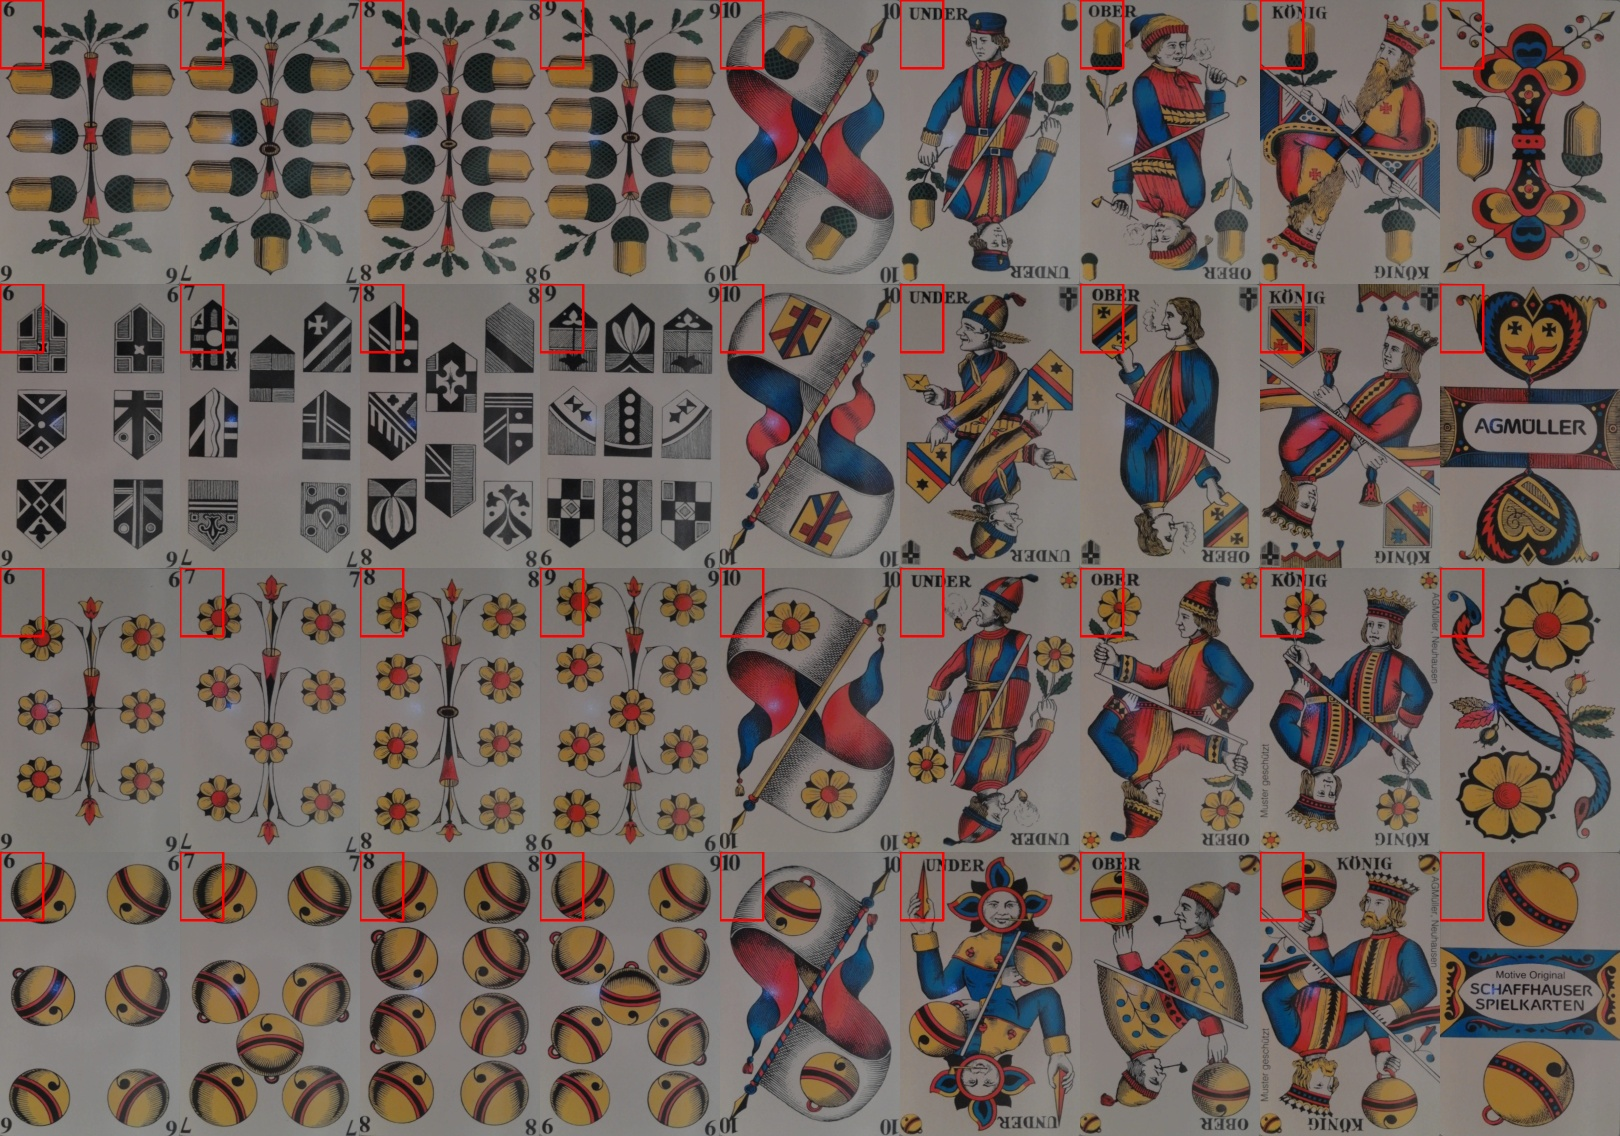
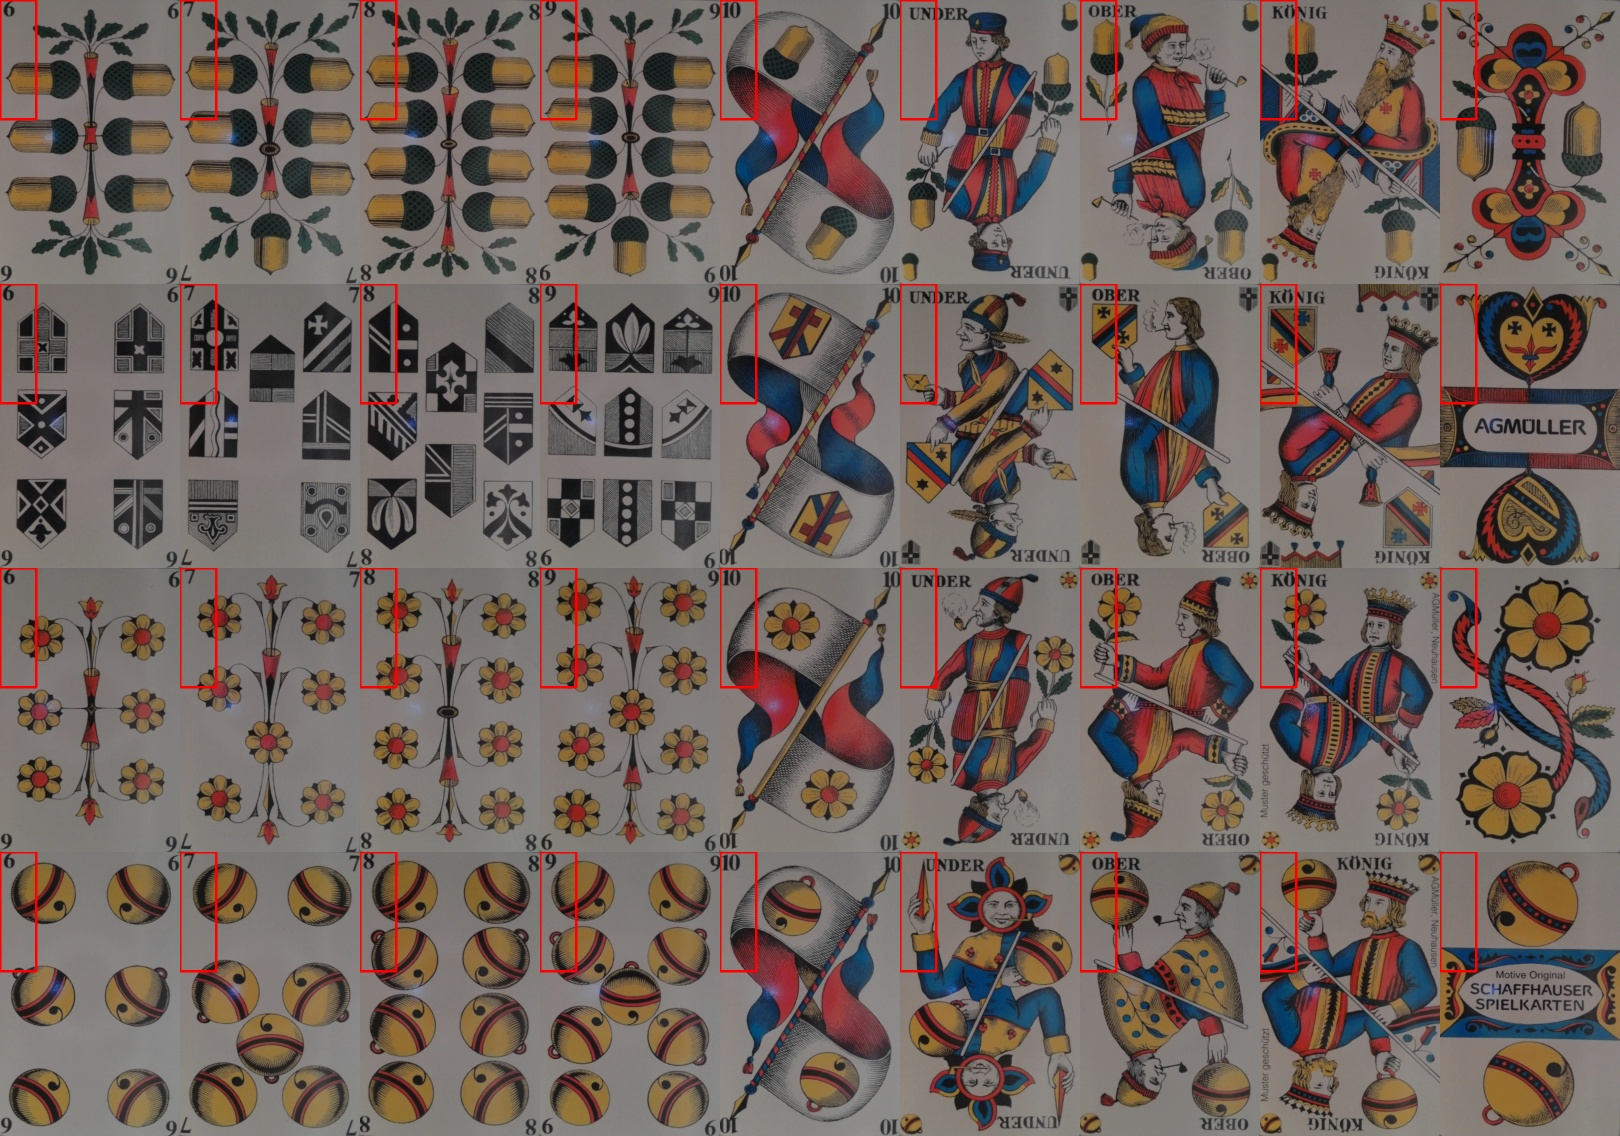
feat: tune the corner region to the real deck
The default 0.24 x 0.24 box was a guess. Measured on the 36 real faces and 300
synthetic fans (tools/corner_region_report.py), a narrow, tall box (0.20 x 0.42) is
both easier to tell apart (closest pair 0.036 -> 0.050 RMS) and more often visible
enough to keep its label (84.6 % -> 87.6 %): width is quickly covered by the next card,
height is cheap and adds the suit symbol below the index. The report and the expected
weak spots (Under, Banner, Ass, neighbouring numbers) are documented for experiment 2.

diff --git a/tools/corner_region_report.py b/tools/corner_region_report.py
@@ -1,0 +1,121 @@
+"""Compare candidate corner regions: how distinct are the 36 corners, how often are they visible?
+
+A bigger corner box shows more of each card (easier to tell cards apart) but is more often
+covered by the next card in the fan (fewer usable labels). For every candidate region this
+prints two numbers:
+
+- distinctiveness: for each card, the RMS pixel distance between its corner crop and the
+  closest other card's corner crop. Higher is better; the closest pairs are listed.
+- visibility: share of synthetic cards whose corner is at least `--min-corner-visible`
+  visible (the threshold `jass_cv.dataset export` uses to keep a corner label).
+
+  python tools/corner_region_report.py --cards-dir data/cards --n 300
+"""
+
+from __future__ import annotations
+
+import argparse
+import itertools
+import sys
+from pathlib import Path
+
+import cv2
+import numpy as np
+
+sys.path.insert(0, str(Path(__file__).resolve().parents[1] / "src"))
+
+from jass_cv import geometry, synth  # noqa: E402
+from jass_cv.cards import CLASS_NAMES  # noqa: E402
+
+DEFAULT_WIDTHS = (0.20, 0.24, 0.30, 0.36)
+DEFAULT_HEIGHTS = (0.24, 0.30, 0.36, 0.42)
+
+
+def corner_crops(faces: dict[int, np.ndarray], region) -> np.ndarray:
+    """Corner crop of every card, resized to 48 × 48 and slightly blurred, in [0, 1]."""
+    x0, y0, x1, y1 = region
+    crops = []
+    for cid in range(len(CLASS_NAMES)):
+        f = faces[cid]
+        h, w = f.shape[:2]
+        crop = f[int(y0 * h) : int(y1 * h), int(x0 * w) : int(x1 * w)]
+        crop = cv2.resize(crop, (48, 48), interpolation=cv2.INTER_AREA)
+        crops.append(cv2.GaussianBlur(crop, (0, 0), 1).astype(np.float32).ravel() / 255)
+    return np.stack(crops)
+
+
+def distinctiveness(faces, region) -> tuple[np.ndarray, list[tuple[float, str, str]]]:
+    """RMS pixel distance from every card's corner to the closest other card's corner.
+
+    Plain distance on purpose: a contrast-normalised score (NCC) blows up the noise in
+    near-empty corners and makes two blank corners look different.
+    """
+    crops = corner_crops(faces, region)
+    dist = np.sqrt(((crops[:, None] - crops[None]) ** 2).mean(-1))
+    np.fill_diagonal(dist, np.inf)
+    pairs = sorted(
+        (float(dist[i, j]), CLASS_NAMES[i], CLASS_NAMES[j])
+        for i, j in itertools.combinations(range(len(crops)), 2)
+    )
+    return dist.min(axis=1), pairs
+
+
+def sample_layouts(faces, n: int, seed: int) -> list[tuple[tuple[int, int], list[np.ndarray]]]:
+    """Card quads (bottom card first) of n synthetic hands, rendered once."""
+    gen = synth.HandGenerator(faces, synth.SynthConfig(aug="none", thumb_prob=0.0))
+    layouts = []
+    for i in range(n):
+        gen.rng = np.random.default_rng([seed, i])
+        img, cards = gen.sample()
+        layouts.append((img.shape[:2], [np.float32(c["quad"]) for c in cards]))
+    return layouts
+
+
+def visibility(layouts, region, min_corner_visible: float) -> float:
+    """Share of cards whose corner is visible enough, from the card quads alone.
+
+    Paints the cards in pile order (rectangles, so rounded corners and the thumb are
+    ignored) and measures how much of each corner the cards above it leave visible.
+    """
+    geometry.CORNER_REGION = region  # corner_rect() reads it at call time
+    kept = total = 0
+    for (h, w), quads in layouts:
+        idmap = np.zeros((h, w), np.int16)
+        for k, quad in enumerate(quads, start=1):
+            cv2.fillConvexPoly(idmap, np.round(quad).astype(np.int32), k)
+        for k, quad in enumerate(quads, start=1):
+            corner = geometry.corner_quad_from_card_quad(quad)
+            mask = np.zeros((h, w), np.uint8)
+            cv2.fillConvexPoly(mask, np.round(corner).astype(np.int32), 1)
+            area = int(mask.sum())
+            seen = int(((idmap == k) & (mask > 0)).sum()) / area if area else 0.0
+            kept += seen >= min_corner_visible
+            total += 1
+    return kept / total
+
+
+def main() -> None:
+    ap = argparse.ArgumentParser(description=__doc__, formatter_class=argparse.RawTextHelpFormatter)
+    ap.add_argument("--cards-dir", type=Path, default=Path("data/cards"))
+    ap.add_argument("--n", type=int, default=300, help="synthetic hands for the visibility check")
+    ap.add_argument("--widths", type=float, nargs="+", default=DEFAULT_WIDTHS)
+    ap.add_argument("--heights", type=float, nargs="+", default=DEFAULT_HEIGHTS)
+    ap.add_argument("--min-corner-visible", type=float, default=0.6)
+    ap.add_argument("--seed", type=int, default=0)
+    ap.add_argument("--pairs", type=int, default=8, help="most similar pairs to list per region")
+    args = ap.parse_args()
+
+    faces = synth.load_faces(args.cards_dir, placeholder=False)
+    layouts = sample_layouts(faces, args.n, args.seed)
+    print(f"{'region (x0,y0,x1,y1)':<26}{'min NN':>8}{'mean NN':>9}{'visible':>9}")
+    for w, h in itertools.product(args.widths, args.heights):
+        region = (0.0, 0.0, w, h)
+        nn, pairs = distinctiveness(faces, region)
+        vis = visibility(layouts, region, args.min_corner_visible)
+        print(f"{str(region):<26}{nn.min():8.3f}{nn.mean():9.3f}{vis:9.1%}")
+        for score, a, b in pairs[: args.pairs]:
+            print(f"    {score:.3f}  {a} ~ {b}")
+
+
+if __name__ == "__main__":
+    main()

diff --git a/src/jass_cv/geometry.py b/src/jass_cv/geometry.py
@@ -14,8 +14,10 @@ import numpy as np
 FACE_W, FACE_H = 360, 568
 
 # Region in the top-left corner that shows rank + suit, as fractions (x0, y0, x1, y1) of the
-# face. Tune this to your deck (look at a few cards and check the box in the generated images).
-CORNER_REGION = (0.0, 0.0, 0.24, 0.24)
+# face. Tuned on the real deck with tools/corner_region_report.py: a narrow, tall strip keeps
+# the index plus the suit symbol below it and stays visible in a fan (wider boxes are covered
+# by the next card much sooner than taller ones). See docs/dataset.md.
+CORNER_REGION = (0.0, 0.0, 0.20, 0.42)
 
 
 def face_rect() -> np.ndarray:

diff --git a/docs/dataset.md b/docs/dataset.md
@@ -38,6 +38,42 @@ git-ignored (see `data/README.md`).
    should cover rank + suit symbol in the corner; if it doesn't, adjust `CORNER_REGION` (and
    the card ratio `FACE_W/FACE_H`) in `src/jass_cv/geometry.py`.
 
+### Corner region
+
+`CORNER_REGION = (0.0, 0.0, 0.20, 0.42)` (fractions of the face) was picked with
+
+```bash
+uv run --extra synth python tools/corner_region_report.py --n 300
+```
+
+which measures two things per candidate box: how far each card's corner crop is from the
+closest other card's (RMS pixel distance, higher = easier to tell apart) and how many corners
+stay at least 60 % visible in synthetic fans (the threshold the `corner_*` exports use).
+Excerpt (300 synthetic hands, real faces):
+
+| Box (w × h) | closest pair | mean nearest-neighbour | corners visible |
+|---|---|---|---|
+| 0.24 × 0.24 (old default) | 0.036 Eicheln Under ~ Schilten Under | 0.087 | 84.6 % |
+| 0.20 × 0.36 | 0.044 Eicheln Under ~ Rosen Under | 0.088 | 89.4 % |
+| **0.20 × 0.42 (chosen)** | 0.050 Eicheln Under ~ Rosen Under | 0.089 | 87.6 % |
+| 0.24 × 0.42 | 0.055 Schellen 8 ~ Schellen 9 | 0.094 | 76.7 % |
+| 0.30 × 0.36 | 0.051 Schellen 8 ~ Schellen 9 | 0.095 | 63.8 % |
+
+Width is expensive: each card in a fan covers the right side of the card below it, so a
+wider box is hidden much sooner. Height is cheap and adds the suit symbol below the index.
+The chosen box beats the old default on both measures
+([before/after on synthetic hands](img/corner-before-after.jpg): green = corner ≥ 60 % visible,
+red = dropped from the corner labels). The price: upright boxes
+(`corner_aabb`) of neighbouring cards overlap more (mean IoU 0.20 → 0.30). That does not hurt
+detection, because non-maximum suppression is per class and two cards in a hand never share a
+class.
+
+Expected weak spots of the corner variants (worth a slide in experiment 2):
+- **Under**: the corner shows "UN…" and, on Eicheln/Rosen Under, almost nothing of the suit.
+- **Banner**: "10" plus part of the banner; the suit symbol is often only partly inside.
+- **Ass**: no rank index at all, only ornament.
+- **Schellen 8 vs 9** (and other neighbouring numbers): only the index digit differs.
+
 Optional but valuable for realism:
 
 - `data/backgrounds/`: 50–200 photos of what's behind a hand in POV (tables, floors, laps,

diff --git a/docs/architecture.md b/docs/architecture.md
@@ -133,8 +133,9 @@ Principles that stay from the scaffold:
 - **Synthetic vs real**: real hands have curved cards, real thumbs and fingers, glare and
   motion blur. Experiment 1 measures how big this gap is; real background photos and hand
   cut-outs (`data/hands/*.png`) are the main levers.
-- **Corner definition**: `CORNER_REGION` in `geometry.py` must be tuned to your deck
-  (`tools/extract_cards.py` draws it on every card for checking).
+- **Corner definition**: `CORNER_REGION` in `geometry.py` is tuned to our deck with
+  `tools/corner_region_report.py` (see [dataset.md](dataset.md#corner-region)). Under, Banner
+  and Ass show little that identifies them in the top-left corner.
 - **Fan direction**: the generator assumes cards fanned left to right with each card on top
   of the previous one (the top-left corner stays visible). Mirror it if one of you fans the
   other way.
